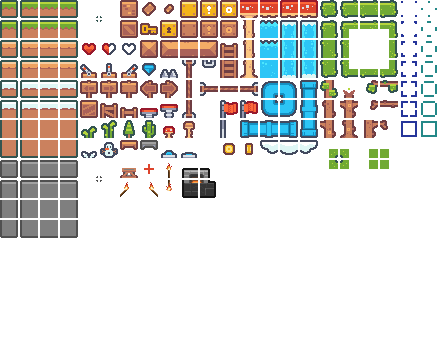
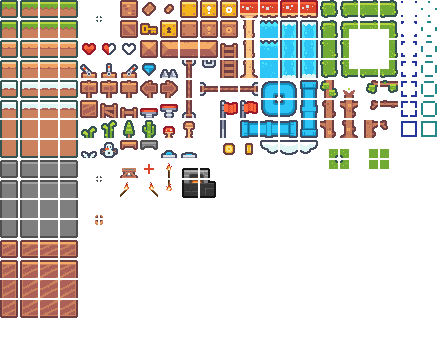
update

Changed region(s): [[0.0, 0.6417, 0.1773, 0.8861], [0.2068, 0.5806, 0.2364, 0.6417]]

diff --git a/core/src/main/java/pama1234/gdx/game/state/state0001/game/region/block/WoodPlank.java b/core/src/main/java/pama1234/gdx/game/state/state0001/game/region/block/WoodPlank.java
@@ -1,0 +1,58 @@
+package pama1234.gdx.game.state.state0001.game.region.block;
+
+import com.badlogic.gdx.graphics.g2d.TextureRegion;
+
+import pama1234.gdx.game.asset.ImageAsset;
+import pama1234.gdx.game.state.state0001.game.metainfo.MetaBlock;
+import pama1234.gdx.game.state.state0001.game.metainfo.info0001.center.MetaBlockCenter0001;
+
+public class WoodPlank extends MetaBlock{
+  public WoodPlank(MetaBlockCenter0001 pc,int id) {
+    super(pc,"wood-plank",id,20,2,(in,type)-> {//change to dirt
+      // in.lighting=16;
+      in.light.set(16);
+    },(in,type)-> {//change from dirt
+    });
+    blockType=woodType;
+    destroyTime=30;
+    buildTime=15;
+    fullBlockType=2;
+    initFullBlockLambda();
+  }
+  @Override
+  public void initItemDrop() {
+    itemDrop=new ItemDropAttr[] {new ItemDropAttr(pc.pw.metaItems.woodPlank,1)};
+  }
+  @Override
+  public void init() {
+    TextureRegion[][] tsrc=ImageAsset.tiles;
+    int tx=0,ty=12;
+    //-----------------------------------------------------
+    tiles[15]=tsrc[tx][ty];
+    tiles[7]=tsrc[tx+1][ty];
+    tiles[3]=tsrc[tx+2][ty];
+    tiles[11]=tsrc[tx+3][ty];
+    //-----------------------------------------------------
+    tiles[13]=tsrc[tx][ty+1];
+    tiles[5]=tsrc[tx+1][ty+1];
+    tiles[1]=tsrc[tx+2][ty+1];
+    tiles[9]=tsrc[tx+3][ty+1];
+    //-----------------------------------------------------
+    tiles[12]=tsrc[tx][ty+2];
+    tiles[4]=tsrc[tx+1][ty+2];
+    tiles[0]=tsrc[tx+2][ty+2];
+    tiles[8]=tsrc[tx+3][ty+2];
+    //-----------------------------------------------------
+    tiles[14]=tsrc[tx][ty+3];
+    tiles[6]=tsrc[tx+1][ty+3];
+    tiles[2]=tsrc[tx+2][ty+3];
+    tiles[10]=tsrc[tx+3][ty+3];
+    //----------------------------------------------------- TODO
+    tx=4;
+    ty=10;
+    tiles[16]=tsrc[tx][ty];
+    tiles[17]=tsrc[tx+1][ty];
+    tiles[18]=tsrc[tx][ty+1];
+    tiles[19]=tsrc[tx+1][ty+1];
+  }
+}

diff --git a/core/src/main/java/pama1234/gdx/game/state/state0001/game/world/World0001Generator.java b/core/src/main/java/pama1234/gdx/game/state/state0001/game/world/World0001Generator.java
@@ -11,6 +11,7 @@ import pama1234.gdx.game.state.state0001.game.metainfo.info0001.center.MetaBlock
 import pama1234.gdx.game.state.state0001.game.metainfo.info0001.center.MetaCreatureCenter0001;
 import pama1234.gdx.game.state.state0001.game.metainfo.info0001.center.MetaItemCenter0001;
 import pama1234.gdx.game.state.state0001.game.player.Player.PlayerType;
+import pama1234.gdx.game.state.state0001.game.region.block.WoodPlank;
 import pama1234.gdx.game.state.state0001.game.region.block.block0001.Dirt;
 import pama1234.gdx.game.state.state0001.game.region.block.block0001.Sapling;
 import pama1234.gdx.game.state.state0001.game.region.block.block0001.Stone;
@@ -32,6 +33,7 @@ public class World0001Generator{
     metaBlocks.list.add(metaBlocks.workbench=new Workbench(metaBlocks,metaBlocks.id()));
     metaBlocks.list.add(metaBlocks.sapling=new Sapling(metaBlocks,metaBlocks.id()));
     metaBlocks.list.add(metaBlocks.torch=new Torch(metaBlocks,metaBlocks.id()));
+    metaBlocks.list.add(metaBlocks.woodPlank=new WoodPlank(metaBlocks,metaBlocks.id()));
     return metaBlocks;
   }
   public static MetaItemCenter0001 createItemC(World0001 pw) {
@@ -105,6 +107,11 @@ public class World0001Generator{
       in.blockType=pw.metaBlocks.torch;
       in.tiles=new TextureRegion[1];
       in.tiles[0]=ImageAsset.items[6][0];
+    }));
+    metaItems.list.add(metaItems.woodPlank=new MetaItem(metaItems,"wood-plank",metaItems.id(),in-> {
+      in.blockType=pw.metaBlocks.woodPlank;
+      in.tiles=new TextureRegion[1];
+      in.tiles[0]=ImageAsset.items[3][0];
     }));
     return metaItems;
   }

diff --git a/core/src/main/java/pama1234/gdx/game/state/state0001/game/region/block/block0001/Workbench.java b/core/src/main/java/pama1234/gdx/game/state/state0001/game/region/block/block0001/Workbench.java
@@ -172,8 +172,9 @@ public class Workbench extends MetaBlock{
       new CraftRecipe(new CraftItem[] {new CraftItem(mi.branch),new CraftItem(mi.stone)},new CraftItem[] {new CraftItem(mi.stoneAxe)}),
       new CraftRecipe(new CraftItem[] {new CraftItem(mi.branch),new CraftItem(mi.stone)},new CraftItem[] {new CraftItem(mi.stoneSword)}),
       new CraftRecipe(new CraftItem[] {new CraftItem(mi.branch),new CraftItem(mi.stone)},new CraftItem[] {new CraftItem(mi.stoneChisel)}),
-      new CraftRecipe(new CraftItem[] {new CraftItem(mi.branch,4)},new CraftItem[] {new CraftItem(mi.log)}),
-      new CraftRecipe(new CraftItem[] {new CraftItem(mi.log)},new CraftItem[] {new CraftItem(mi.branch,4)}),
+      new CraftRecipe(new CraftItem[] {new CraftItem(mi.branch,8)},new CraftItem[] {new CraftItem(mi.log)}),
+      new CraftRecipe(new CraftItem[] {new CraftItem(mi.log)},new CraftItem[] {new CraftItem(mi.branch,8)}),
+      new CraftRecipe(new CraftItem[] {new CraftItem(mi.log)},new CraftItem[] {new CraftItem(mi.woodPlank,4)}),
       new CraftRecipe(new CraftItem[] {new CraftItem(mi.leaf)},new CraftItem[] {new CraftItem(mi.sapling,2)}),
       new CraftRecipe(new CraftItem[] {new CraftItem(mi.leaf),new CraftItem(mi.branch)},new CraftItem[] {new CraftItem(mi.torch,4)}),
     };

diff --git a/core/src/main/java/pama1234/gdx/game/state/state0001/game/metainfo/info0001/center/MetaBlockCenter0001.java b/core/src/main/java/pama1234/gdx/game/state/state0001/game/metainfo/info0001/center/MetaBlockCenter0001.java
@@ -3,6 +3,7 @@ package pama1234.gdx.game.state.state0001.game.metainfo.info0001.center;
 import pama1234.game.app.server.server0002.game.metainfo.IDGenerator;
 import pama1234.gdx.game.state.state0001.game.metainfo.MetaBlock;
 import pama1234.gdx.game.state.state0001.game.metainfo.MetaInfoUtil.MetaBlockCenter;
+import pama1234.gdx.game.state.state0001.game.region.block.WoodPlank;
 import pama1234.gdx.game.state.state0001.game.region.block.block0001.Dirt;
 import pama1234.gdx.game.state.state0001.game.region.block.block0001.Sapling;
 import pama1234.gdx.game.state.state0001.game.region.block.block0001.Stone;
@@ -25,6 +26,7 @@ public class MetaBlockCenter0001 extends MetaBlockCenter{
   public Workbench workbench;
   public Sapling sapling;
   public Torch torch;
+  public WoodPlank woodPlank;
   public MetaBlockCenter0001(World0001 pw) {
     this.pw=pw;
     idg=new IDGenerator();

diff --git a/core/src/main/java/pama1234/gdx/game/state/state0001/game/player/PlayerController.java b/core/src/main/java/pama1234/gdx/game/state/state0001/game/player/PlayerController.java
@@ -53,12 +53,19 @@ public class PlayerController extends Entity<Screen0011>{
         //---
         new RectF(()->p.width-p.bu*3.5f-p.pus,()->p.bu*0.5f-p.pus,()->p.bu*2.75f+p.pus*4,()->p.bu+p.pus),
         new RectF(()->p.bu*0.5f-p.pus,()->p.bu*1.5f,()->p.bu+p.pus*2,()->p.bu*2+p.pus),
+        //---
+        exitButton(),
       };
-    }else cullRects=new RectF[0];
+    }else cullRects=new RectF[] {
+      exitButton(),
+    };
     limitBox=new MovementLimitBox(player);
     selectEntity=new EntityPointer(player.pw,()->player.inventory.select().data);
     selectBlock=new ControllerBlockPointer(player.pw,()->player.inventory.select().data);
     player.outerBox=limitBox;
+  }
+  public RectF exitButton() {
+    return new RectF(()->p.bu*0.2f-p.pus,()->p.bu*0.2f-p.pus,()->p.bu+p.pus*2,()->p.bu+p.pus*2);
   }
   @Override
   public void display() {

diff --git a/core/src/main/java/pama1234/gdx/game/state/state0001/game/metainfo/info0001/center/MetaItemCenter0001.java b/core/src/main/java/pama1234/gdx/game/state/state0001/game/metainfo/info0001/center/MetaItemCenter0001.java
@@ -9,7 +9,7 @@ public class MetaItemCenter0001 extends MetaItemCenter{
   public World0001 pw;
   public IDGenerator idg;
   // public MetaItem inventoryConfig;
-  public MetaItem dirt,stone,log,branch,leaf,workbench,stonePickaxe,stoneAxe,stoneChisel,stoneSword,sapling,torch;
+  public MetaItem dirt,stone,log,branch,leaf,workbench,stonePickaxe,stoneAxe,stoneChisel,stoneSword,sapling,torch,woodPlank;
   public MetaItemCenter0001(World0001 pw) {
     this.pw=pw;
     idg=new IDGenerator();
